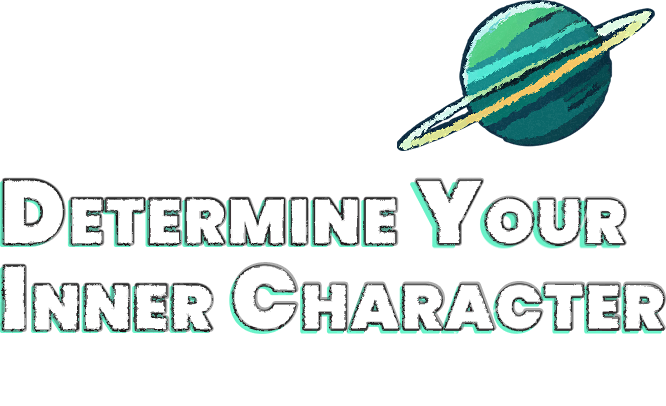
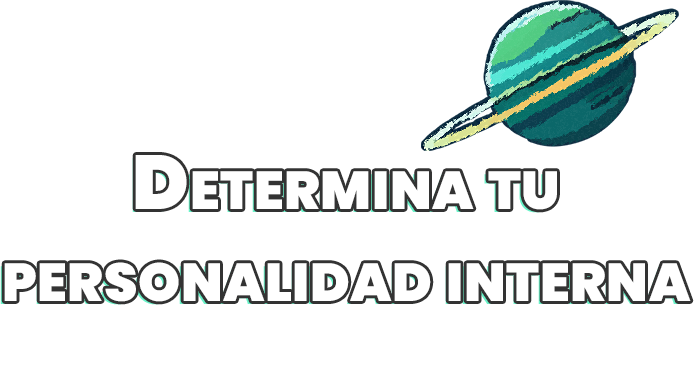
1130

Changed region(s): [[0.0, 0.6462, 1.0, 0.8308], [0.0, 0.3692, 0.961, 0.6154], [0.5706, 0.0, 0.991, 0.4]]

diff --git a/index.html b/index.html
@@ -1,5 +1,5 @@
 <!DOCTYPE html>
-<html lang="en">
+<html lang="Lt-az-AZ">
 
 <head>
   <meta charset="utf-8" />
@@ -11,8 +11,8 @@
   <meta name="Keywords" content="navidad, premio, sorteo, teamgroup, memoria, ssd, tarjeta de memoria" />
   <meta property="og:type" content="website" />
   <meta property="og:title" content="Navidad 2023 - Define tu personalidad" />
-  <meta property="og:url" content="https://event.teamgroupinc.com/en/xmas2023/" />
-  <meta property="og:image" content="https://event.teamgroupinc.com/en/xmas2023/images/share.jpg" />
+  <meta property="og:url" content="https://event.teamgroupinc.com/latam/xmas2023/" />
+  <meta property="og:image" content="https://event.teamgroupinc.com/latam/xmas2023/images/share.jpg" />
   <meta property="og:description" content="¡Ven con nosotros a conocer el evento de Navidad de TEAMGROUP! Ofrecemos una gran variedad de productos, como memorias para juegos, SSD (unidades de estado sólido), tarjetas de memoria y GoPro. Participa en nuestro emocionante evento y llévate regalos de Navidad y premios de tu elección. Súmate para el sorteo participando en un test psicológico." />
   <link rel="icon" href="images/favicon.ico" type="image/x-icon" />
   <meta name="format-detection" content="telephone=no" />
@@ -143,8 +143,11 @@
         <div class="BgBox">
           <div class="step bannerBox">
             <div class="container">
-              <div class="item">
+              <div class="item pc">
                 <img class="img-fluid" src="images/font_01.png">
+              </div>
+              <div class="item mb">
+                <img class="img-fluid" src="images/font_01_m.png">
               </div>
               <div class="ScrollDown position-absolute start-50 translate-middle-x">
                 <div class="chevron position-absolute nextButton" onclick="handleGoToStepIndex(1)"></div>
@@ -178,7 +181,7 @@
           
           <div class="row justify-content-flex-start flex-md-column">
             <div class="col-12 col-md-6">
-              <h2 class="h2">1. Mi computadora y mi móvil se quedan a menudo sin espacio</h2>
+              <h2 class="h2">1. Mi computadora y mi móvil se quedan a menudo sin espacio…</h2>
             </div>
             <div class="col-12 col-md-12">
               <button class="nextButton btn btn-main" onclick="handleGoToStepIndex(3)">
@@ -194,7 +197,7 @@
 
       <div class="step question QABox QBox_02">
         <div class="container">
-          <h2 class="h2 mx-auto text-center">2. Leo consejos y busco guías de juegos</h2>
+          <h2 class="h2 mx-auto text-center">2. Leo consejos y busco guías de juegos…</h2>
           <div class="row text-center justify-content-center">
             <div class="col-12">
               <button class="nextButton btn btn-main" onclick="handleGoToStepIndex(4)">
@@ -249,7 +252,7 @@
           <div class="bifurcation bifurcation0">
             <div class="row justify-content-start">
               <div class="col-12 col-md-6">
-                <h2 class="h2">5. Cuando hay comida en la mesa y es hora de comer, fotografiar es mi prioridad</h2>
+                <h2 class="h2">5. Cuando hay comida en la mesa y es hora de comer, fotografiar es mi prioridad...</h2>
               </div>
               <div class="col-12 d-flex">
                 <!--resultB-->
@@ -301,12 +304,12 @@
 
                 </mark>
               </div>
-              <div class="col-12 col-md-4 mx-auto mt-3 d-flex justify-content-end">
+              <div class="col-12 col-md-4 mx-auto mt-5 d-flex justify-content-end">
                 <button class="btn btn-main btn-second" onclick="handleReStart()">
                   REINICIO
                 </button>
                 <button class="btn btn-main" onclick="handleGoToStepIndex(11)">
-                  參加限時抽獎活動
+                  SORTEO
                 </button>
               </div>
             </div>
@@ -330,12 +333,12 @@
 
                   </mark>
               </div>
-              <div class="col-12 col-md-4 mx-auto mt-3 d-flex justify-content-end">
+              <div class="col-12 col-md-4 mx-auto mt-5 d-flex justify-content-end">
                 <button class="btn btn-main btn-second" onclick="handleReStart()">
                   REINICIO
                 </button>
                 <button class="btn btn-main" onclick="handleGoToStepIndex(11)">
-                  參加限時抽獎活動
+                  SORTEO
                 </button>
               </div>
             </div>
@@ -359,12 +362,12 @@
 
                   </mark>
               </div>
-              <div class="col-12 col-md-4 mx-auto mt-3 d-flex justify-content-end">
+              <div class="col-12 col-md-4 mx-auto mt-5 d-flex justify-content-end">
                 <button class="btn btn-main btn-second" onclick="handleReStart()">
                   REINICIO
                 </button>
                 <button class="btn btn-main" onclick="handleGoToStepIndex(11)">
-                  參加限時抽獎活動
+                  SORTEO
                 </button>
               </div>
             </div>
@@ -389,12 +392,12 @@
 
                 </mark>
               </div>
-              <div class="col-12 col-md-4 mx-auto mt-3 d-flex justify-content-end">
+              <div class="col-12 col-md-4 mx-auto mt-5 d-flex justify-content-end">
                 <button class="btn btn-main btn-second" onclick="handleReStart()">
                   REINICIO
                 </button>
                 <button class="btn btn-main" onclick="handleGoToStepIndex(11)">
-                  參加限時抽獎活動
+                  SORTEO
                 </button>
               </div>
             </div>
@@ -414,12 +417,12 @@
                 </div>
 
                 <div class="mb-3">
-                  <label for="demo_email" class="form-label fs-5">Email *</label>
+                  <label for="demo_email" class="form-label fs-5">Email*</label>
                   <input type="email" class="form-control" id="demo_email" placeholder="name@example.com">
                 </div>
 
                 <div class="mb-3">
-                  <label for="demo_country" class="form-label fs-5">País *</label>
+                  <label for="demo_country" class="form-label fs-5">País*</label>
                   <input type="country" class="form-control" id="demo_country">
                 </div>
 
@@ -432,7 +435,8 @@
               <p class="BigTitle">¿Cómo participar?</p>
               <ul class="ps-5">
                 <li>
-                  Paso 1. Completa el test de personalidad y toma una captura de pantalla de los resultados.
+                  Paso 1. Completa el <a href="javascript:void(0)" onclick="handleReStart();"
+                  style="color: #57c7a9;">test de personalidad</a> y toma una captura de pantalla de los resultados.
                 </li>
                 <li class="mt-2">
                   Paso 2. Comparte los resultados en tus redes sociales y etiqueta a 2 amigos.
@@ -453,8 +457,7 @@
                 Periodo de actividad: Del 1 de diciembre de 2023 al 31 de diciembre de 2023. Los ganadores se anunciarán el 18 de enero de 2024.
               </li>
               <li class="mt-2">
-                聖誕抽獎好禮：1.DELTA RGB DDR5 BLACK 32GB(2x16GB) 8000MHz CL38 / A440 Pro Graphene 4TB  |  2. GoPro HERO10 / GO Card MicroSDXC 1TB  |  3. VULCAN DDR5 BLACK 32GB(2x16GB) 6400MHz CL32  |  4. M200 SSD 1TB  |  5. 十銓特別禮物包
-              </li>
+                Christmas Prizes: 1.DELTA RGB DDR5 BLACK 32GB(2x16GB) 8000MHz CL38 / A440 Pro Graphene 4TB  |  2. GoPro HERO10 / GO Card MicroSDXC 1TB  |  3. VULCAN DDR5 BLACK 32GB(2x16GB) 6400MHz CL32  |  4. M200 SSD 1TB  |  5. TEAMGROUP SPECIAL BAG              </li>
               <li class="mt-2">
                 Los ganadores serán notificados por correo. Por favor, responde dentro de las 72 horas siguientes al anuncio del ganador y proporciona una captura de pantalla de los resultados de tu concurso durante el periodo de la campaña para demostrar que eres elegible para el sorteo. Incluye una dirección de envío válida e información de contacto en el mensaje que nos envíes. Las respuestas tardías se considerarán como renuncia al premio.
               </li>
@@ -475,10 +478,10 @@
             <div class="container">
               <div class="row align-items-center justify-content-end">
                 <div class="col-md-3 col-sm-12 d-flex justify-content-center justify-content-lg-start">
-                  <a  href="https://www.teamgroupinc.com/en/shop/" target="_blank"><img src="images/Btn_shop.png" alt=""></a>
+                  <a  href="https://www.teamgroupinc.com/es/shop/" target="_blank"><img src="images/Btn_shop.png" alt=""></a>
                 </div>
                 <div class="col-md-9 col-sm-12 d-flex justify-content-md-end align-items-center  justify-content-sm-center">
-                  <a class="teamlogo d-block" href="https://www.teamgroupinc.com/tw/" target="_blank">
+                  <a class="teamlogo d-block" href="https://www.teamgroupinc.com/es/" target="_blank">
                     <img class="img-fluid" src="images/HF/teamlogo_en.png" alt="Teamlogo">
                   </a>
                   <div class="socialBox">
@@ -492,7 +495,7 @@
                         </a>
                       </li>
                       <li>
-                        <a href="https://www.facebook.com/teamgroupinclatam/" target="_blank" title="Instagram">
+                        <a href="https://www.instagram.com/teamgrouplatam/" target="_blank" title="Instagram">
                           <svg xmlns="http://www.w3.org/2000/svg" viewBox="0 0 448 512">
                             <path
                               d="M224.1 141c-63.6 0-114.9 51.3-114.9 114.9s51.3 114.9 114.9 114.9S339 319.5 339 255.9 287.7 141 224.1 141zm0 189.6c-41.1 0-74.7-33.5-74.7-74.7s33.5-74.7 74.7-74.7 74.7 33.5 74.7 74.7-33.6 74.7-74.7 74.7zm146.4-194.3c0 14.9-12 26.8-26.8 26.8-14.9 0-26.8-12-26.8-26.8s12-26.8 26.8-26.8 26.8 12 26.8 26.8zm76.1 27.2c-1.7-35.9-9.9-67.7-36.2-93.9-26.2-26.2-58-34.4-93.9-36.2-37-2.1-147.9-2.1-184.9 0-35.8 1.7-67.6 9.9-93.9 36.1s-34.4 58-36.2 93.9c-2.1 37-2.1 147.9 0 184.9 1.7 35.9 9.9 67.7 36.2 93.9s58 34.4 93.9 36.2c37 2.1 147.9 2.1 184.9 0 35.9-1.7 67.7-9.9 93.9-36.2 26.2-26.2 34.4-58 36.2-93.9 2.1-37 2.1-147.8 0-184.8zM398.8 388c-7.8 19.6-22.9 34.7-42.6 42.6-29.5 11.7-99.5 9-132.1 9s-102.7 2.6-132.1-9c-19.6-7.8-34.7-22.9-42.6-42.6-11.7-29.5-9-99.5-9-132.1s-2.6-102.7 9-132.1c7.8-19.6 22.9-34.7 42.6-42.6 29.5-11.7 99.5-9 132.1-9s102.7-2.6 132.1 9c19.6 7.8 34.7 22.9 42.6 42.6 11.7 29.5 9 99.5 9 132.1s2.7 102.7-9 132.1z" />

diff --git a/css/stylesheet.css b/css/stylesheet.css
@@ -350,6 +350,7 @@ footer .socialBox .socialList li a svg {
   color: white;
   background-image: linear-gradient(to right, rgb(14, 47, 67) 0%, rgb(9, 46, 63) 50%, rgb(12, 90, 106) 100%);
   background-size: 200% auto;
+  padding: 10px;
 }
 
 .QBox_01 .btn-main,

diff --git a/scss/stylesheet.scss b/scss/stylesheet.scss
@@ -391,6 +391,7 @@ footer {
   color: #ffff;
   background-image: linear-gradient(to right, rgb(14, 47, 67) 0%, rgb(9, 46, 63) 50%, rgb(12, 90, 106) 100%);
   background-size: 200% auto;
+  padding: 10px;
 }
 
 .QBox_01,
